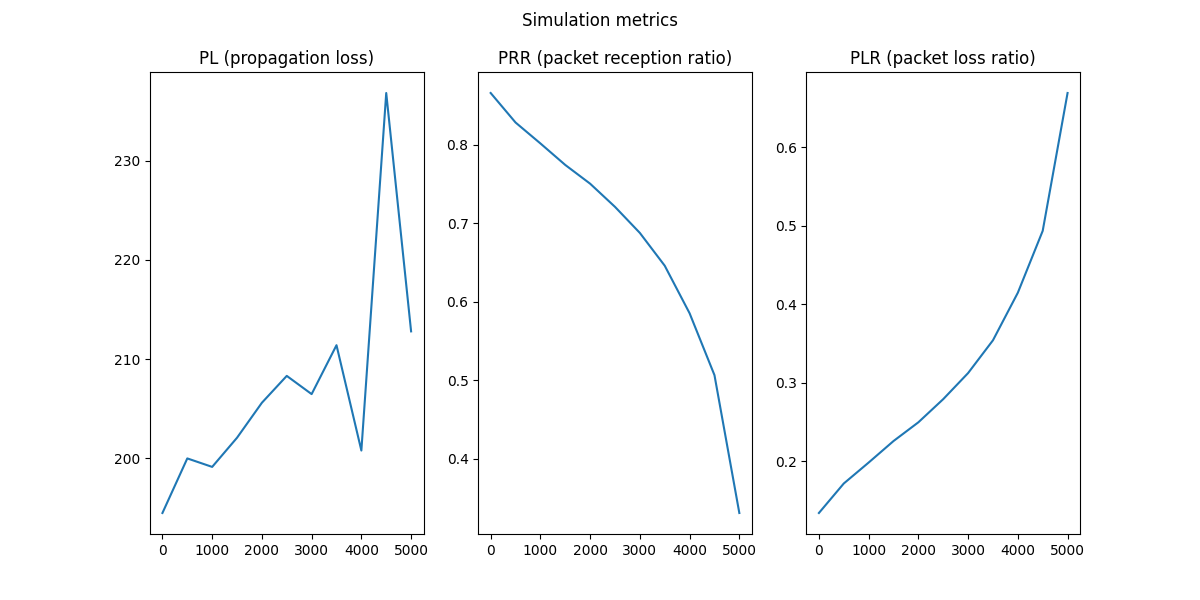
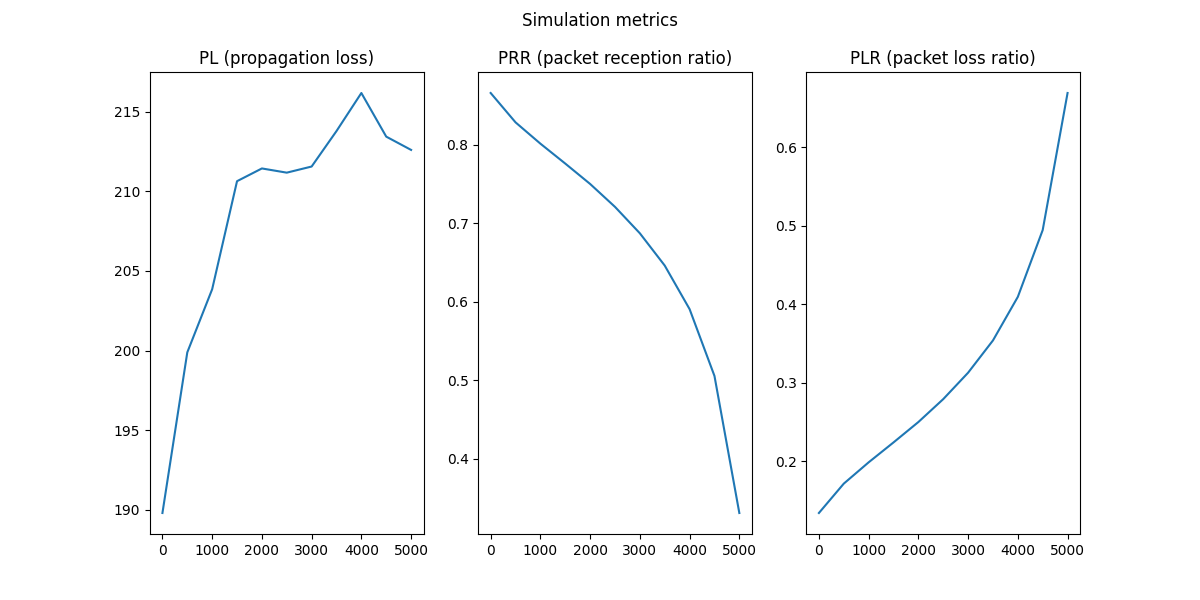
Added positive parameters check

diff --git a/plotting.py b/plotting.py
@@ -39,7 +39,7 @@ class GraphPlotter:
         """
         prop_loss_labels = self.generate_distance_regions(self.prop_loss_region)
         packages_labels = self.generate_distance_regions(self.packages_region)
-        self.prop_loss_dict = {label: [] for label in prop_loss_labels}
+        self.prop_loss_dict = {label: {'prop_loss': 0, 'v_num': 0} for label in prop_loss_labels}
         self.signal_reception_dict = {label: {'correct': 0, 'total': 0} for label in packages_labels}
 
     def process_row(self, dist_row: pd.Series, prop_loss_df: pd.DataFrame, signal_reception_df: pd.DataFrame,
@@ -58,7 +58,8 @@ class GraphPlotter:
                 signal_reception_val = signal_reception_df[v1][timestamp, v0]
                 prop_loss_dist = int(np.floor(dist / self.prop_loss_region) * self.prop_loss_region)
                 packages_dist = int(np.floor(dist / self.packages_region) * self.packages_region)
-                self.prop_loss_dict[prop_loss_dist].append(prop_loss_val)
+                self.prop_loss_dict[prop_loss_dist]['prop_loss'] += prop_loss_val
+                self.prop_loss_dict[prop_loss_dist]['v_num'] += 1
                 self.signal_reception_dict[packages_dist]['correct'] += signal_reception_val
                 self.signal_reception_dict[packages_dist]['total'] += 1
 
@@ -78,7 +79,9 @@ class GraphPlotter:
         for key in self.prop_loss_dict:
             if self.prop_loss_dict[key]:
                 plot_x.append(key)
-                plot_y.append(np.mean(self.prop_loss_dict[key]))
+                prop_loss_sum = self.prop_loss_dict[key]['prop_loss']
+                v_num = self.prop_loss_dict[key]['v_num']
+                plot_y.append(prop_loss_sum / v_num)
         return plot_x, plot_y
 
     def plot_prr(self) -> Tuple[List[int], List[float]]:

diff --git a/io_processing.py b/io_processing.py
@@ -12,13 +12,13 @@ class UserInput:
     VALID_PARAMETERS = {
         'dataFilepath': str,
         'csvSep': str,
-        'signalFreq': int,
-        'receptionThreshold': float,
-        'signalPower': int,
         'envScenario': str,
+        'signalFreq': int,
+        'signalPower': int,
         'propLossRegion': int,
         'packagesRegion': int,
-        'simCnt': int
+        'simCnt': int,
+        'receptionThreshold': float
     }
     DEFAULT_PARAMETERS = {
         'csvSep': ';',
@@ -27,6 +27,7 @@ class UserInput:
         'packagesRegion': 500
     }
     NECESSARY_PARAMETERS = VALID_PARAMETERS.keys() - DEFAULT_PARAMETERS.keys()
+    POSITIVE_PARAMETERS = {'signalFreq', 'signalPower', 'propLossRegion', 'packagesRegion', 'simCnt'}
     PANDAS_READERS = {
         '.csv': pd.read_csv,
         '.xls': pd.read_excel,
@@ -90,6 +91,8 @@ class UserInput:
                     dct[param] = self.VALID_PARAMETERS[param](dct[param])
                 except ValueError:
                     raise exceptions.IncorrectConfigParameterTypeException(param, str(self.VALID_PARAMETERS[param]))
+                if param in self.POSITIVE_PARAMETERS and dct[param] <= 0:
+                    raise exceptions.PositiveConfigParameterException(param)
         if not os.path.isfile(dct['dataFilepath']):
             raise exceptions.IncorrectSimDataPathException
         if dct['envScenario'] not in self.VALID_SCENARIOS:

diff --git a/exceptions.py b/exceptions.py
@@ -14,7 +14,7 @@ class DataParsingException(Exception):
 
 class ConfigException(DataParsingException):
     def __init__(self):
-        pass
+        self.error_message = None
 
     def __str__(self):
         pass
@@ -68,6 +68,14 @@ class MissingConfigParameterException(ConfigException):
 class IncorrectConfigParameterTypeException(ConfigException):
     def __init__(self, incorrect_param: str, correct_type: str):
         self.error_message = f'Некорректный тип параметра {incorrect_param}, требуется {correct_type}'
+
+    def __str__(self):
+        return self.error_message
+
+
+class PositiveConfigParameterException(ConfigException):
+    def __init__(self, incorrect_param: str):
+        self.error_message = f'Параметр {incorrect_param} должен быть положительным'
 
     def __str__(self):
         return self.error_message

diff --git a/README.md b/README.md
@@ -32,33 +32,39 @@ Key1=Value
 
 Key2=Value
 
-Valid simulation parameters:
-
 **dataFilepath** - full path to the simulation file FILENAME.csv
 
-**csvSep** - csv file delimiter, default option is *semicolon*
+**csvSep** - csv file separator, default option is *semicolon*
 
-**signalFreq** - frequency of the signal transmitted by the machines, integer
+**envScenario** - simulation scenario, available options - *highway*. The default scenario is *highway*
 
-**signalPower** - power of the signal transmitted by the machines, integer
+**signalFreq** - frequency of the signal transmitted by the machines, positive integer
 
-**receptionThreshold** - minimal signal power requied for the machine receiver to process a message, float
+**signalPower** - power of the signal transmitted by the machines, positive integer
 
-**envScenario** - simulation scenario, available options - *highway*, *urban*. The default scenario is *highway*.
+**propLossRegion** - the averaging regions for propagation loss chart, positive integer. The default value is *500*
 
-**propLossRegion** - the averaging regions for propagation loss chart, integer
+**packagesRegion** - the averaging regions for all the packages-based metrics, positive integer. The default value 
+is *500*
 
-**packagesRegion** - the averaging regions for all the packages-based metrics, integer
+**simCnt** - number of simulation runs, positive integer. The default value is *1*
 
-The program can correctly process simulation files of extensions *.csv*, *.xls* and *.xlsx*, an attempt to transfer a file of other extensions will cause an error.
+**receptionThreshold** - minimal signal power required for the machine receiver to process a message, float
 
-The simulation file must be of the SUMO FCD (flying cars data) format, otherwise the program will not be able to run the simulation.
+The program can correctly process simulation files of extensions *.csv*, *.xls* and *.xlsx*, an attempt to transfer 
+a file of other extension will cause an error.
+
+The simulation file must be of the SUMO FCD (flying cars data) format, otherwise the program will not be able to run
+the simulation.
 
 2\. Run the program through the command line
 
-**Important:** the program perceives the path to the simulation data file relative to its position in the file system, so if your configuration file is not in the same folder as the program, the absolute path to the simulation data file must be passed as the **dataFilepath** parameter.
+**Important:** the program perceives the path to the simulation data file relative to the script position in the file
+system, so if your configuration file is not in the same folder as the program, the absolute path to the simulation data
+file must be passed as the **dataFilepath** parameter.
 
 ### 4\. Analysing simulation results
-The program returns a set of signal reception metrics, which show how effective the cars were at communicating with each other.
+The program returns a set of signal reception metrics, which show how effective the cars were at communicating 
+with each other.
 
 ![5G_NR_V2X_simulator](/images/metrics.png)
